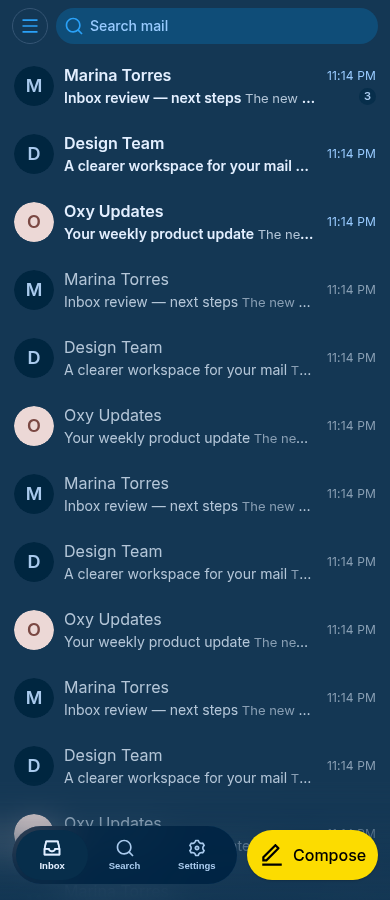
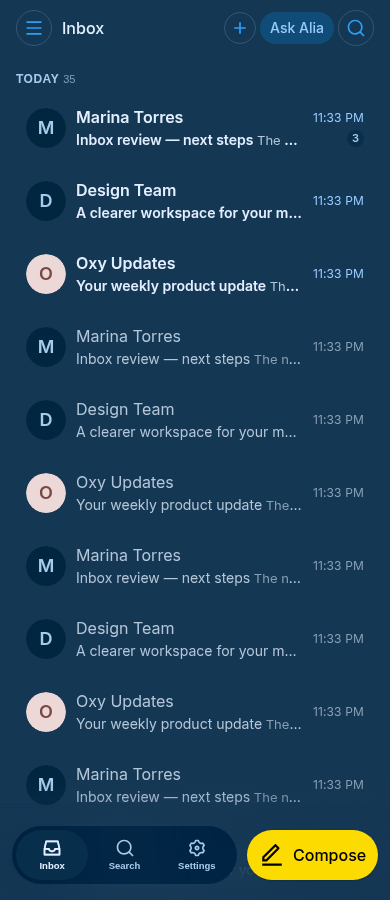
fix(inbox): align mailbox content and group page actions

diff --git a/packages/frontend/components/InboxList.tsx b/packages/frontend/components/InboxList.tsx
@@ -1,10 +1,11 @@
 import { useMailboxScrollRestoration } from '@/hooks/useMailboxScrollRestoration';
 import { useAppShell } from '@oxy.so/bloom/app-shell';
 import { Button, IconButton } from '@oxy.so/bloom/button';
-import { RiAddLine } from '@oxy.so/bloom/icons';
+import { RiAddLine, RiMenuLine, RiSearchLine } from '@oxy.so/bloom/icons';
+import { PageHeader } from '@oxy.so/bloom/page-header';
 /**
- * Inbox message list with search bar, FAB compose, and pull-to-refresh.
- * Used by the (inbox) layout on desktop (always visible) and by the index route on mobile.
+ * Routed mailbox list with Bloom page chrome and pull-to-refresh.
+ * The shell owns the content width on every platform.
  */
 
 import { toast } from '@oxy.so/bloom';
@@ -33,12 +34,11 @@ import { InboxGreeting } from '@/components/InboxGreeting';
 import { MessageRow, MessageRowExtras } from '@/components/MessageRow';
 import { OutboundQueueBanner } from '@/components/OutboundQueueBanner';
 import { ReminderRow } from '@/components/ReminderRow';
-import { SearchHeader } from '@/components/SearchHeader';
 import { SelectionToolbar } from '@/components/SelectionToolbar';
 import { SnoozeSheet } from '@/components/SnoozeSheet';
 import { SwipeableRow } from '@/components/SwipeableRow';
 import { UnreadableMessageRow } from '@/components/UnreadableMessageRow';
-import { CONTENT_MAX_WIDTH, SPACING } from '@/constants/layout';
+import { SPACING } from '@/constants/layout';
 import { SPECIAL_USE } from '@/constants/mailbox';
 import { useColors } from '@/constants/theme';
 import {
@@ -1063,16 +1063,44 @@ export function InboxList({ replaceNavigation }: InboxListProps) {
       ) : (
         // The shared header stays in flow above the virtualized message list.
         <View>
-          <SearchHeader
-            onLeftIcon={handleOpenDrawer}
-            hideLeftIcon={!drawerAvailable}
-            leftIcon="menu"
-            placeholder={t('inbox.searchInMailbox', {
-              mailbox: mailboxTitle.toLowerCase(),
-            })}
-            onPress={handleSearch}
+          <PageHeader
+            title={mailboxTitle}
+            presentation="bar"
+            sticky={false}
+            leading={drawerAvailable ? (
+              <IconButton
+                accessibilityLabel={t('search.openMenu')}
+                icon={<RiMenuLine />}
+                onPress={handleOpenDrawer}
+              />
+            ) : undefined}
+            actions={
+              <View className="flex-row items-center gap-1">
+                {isAuthenticated && (
+                  <>
+                    <IconButton
+                      size="sm"
+                      accessibilityLabel={t('reminder.create.title')}
+                      icon={<RiAddLine />}
+                      onPress={() => setCreateReminderVisible(true)}
+                    />
+                    <Button size="sm" appearance="subtle" onPress={handleAskAlia}>
+                      {t('inbox.askAlia')}
+                    </Button>
+                  </>
+                )}
+                <IconButton
+                  accessibilityLabel={t('inbox.searchInMailbox', {
+                    mailbox: mailboxTitle.toLowerCase(),
+                  })}
+                  icon={<RiSearchLine />}
+                  onPress={handleSearch}
+                />
+              </View>
+            }
           />
-          {isAuthenticated && (
+          {isAuthenticated &&
+            (prefs.aiBrief || (isInboxView && needsResponseCount + followUpCount > 0)) && (
             <View className="flex-row flex-wrap gap-1 px-3 pb-2">
               {isInboxView && needsResponseCount + followUpCount > 0 && (
                 <Button
@@ -1090,15 +1118,6 @@ export function InboxList({ replaceNavigation }: InboxListProps) {
                   {t('home.todaysBrief')}
                 </Button>
               )}
-              <IconButton
-                size="sm"
-                accessibilityLabel={t('reminder.create.title')}
-                icon={<RiAddLine />}
-                onPress={() => setCreateReminderVisible(true)}
-              />
-              <Button size="sm" appearance="subtle" onPress={handleAskAlia}>
-                {t('inbox.askAlia')}
-              </Button>
             </View>
           )}
         </View>
@@ -1190,8 +1209,6 @@ const styles = StyleSheet.create({
   },
   listContent: {
     width: '100%',
-    maxWidth: CONTENT_MAX_WIDTH,
-    alignSelf: 'center',
   },
   listContainer: {
     flex: 1,

diff --git a/packages/frontend/components/SearchList.tsx b/packages/frontend/components/SearchList.tsx
@@ -31,7 +31,7 @@ import { MessageRow } from '@/components/MessageRow';
 import { SavedSearchBar } from '@/components/SavedSearchBar';
 import { SearchHeader } from '@/components/SearchHeader';
 import { UnreadableMessageRow } from '@/components/UnreadableMessageRow';
-import { CONTENT_MAX_WIDTH, SPACING } from '@/constants/layout';
+import { SPACING } from '@/constants/layout';
 import { SPECIAL_USE } from '@/constants/mailbox';
 import { useColors } from '@/constants/theme';
 import { useMailboxes } from '@/hooks/queries/useMailboxes';
@@ -809,7 +809,6 @@ const styles = StyleSheet.create({
   },
   listContent: {
     width: '100%',
-    maxWidth: CONTENT_MAX_WIDTH,
     alignSelf: 'center',
   },
   // `paddingLeft` / `paddingRight` are applied inline so they can include

diff --git a/packages/frontend/components/SearchHeader.tsx b/packages/frontend/components/SearchHeader.tsx
@@ -1,5 +1,4 @@
 /** App-specific search routing around Bloom's shared search field and buttons. */
-import { CONTENT_MAX_WIDTH } from '@/constants/layout';
 import { useTranslation } from '@/lib/i18n';
 import { Button, IconButton } from '@oxy.so/bloom/button';
 import { RiArrowLeftLine, RiMenuLine, RiSearchLine } from '@oxy.so/bloom/icons';
@@ -52,8 +51,6 @@ export const SearchHeader = forwardRef<TextInput, SearchHeaderProps>(
         <View
           style={{
             width: '100%',
-            maxWidth: CONTENT_MAX_WIDTH,
-            alignSelf: 'center',
             flexDirection: 'row',
             alignItems: 'center',
             gap: 8,

diff --git a/docs/bloom-migration.md b/docs/bloom-migration.md
@@ -73,8 +73,9 @@ HTML safety, account-scoped search retention, mailbox navigation, settings deep
 links/account handoff, bottom navigation and swipe action dispatch. Run
 `bun run test`, never `bun test`.
 
-Local browser fixtures use actual Bloom and Inbox UI components with mocked
-mail/account data. They verify 390/899/900/1440px layouts, light/dark modes,
+Local browser fixtures use the real `InboxList`/FlashList, Bloom shell and mail
+components with mocked mail/account hooks. The mailbox now has a Bloom PageHeader
+and one shared content width for its header, controls and rows. They verify 390/899/900/1440px layouts, light/dark modes,
 recipient/subject preservation on resize, and scroll restoration. These are
 UI checks, not authenticated mail-delivery end-to-end tests.
 
